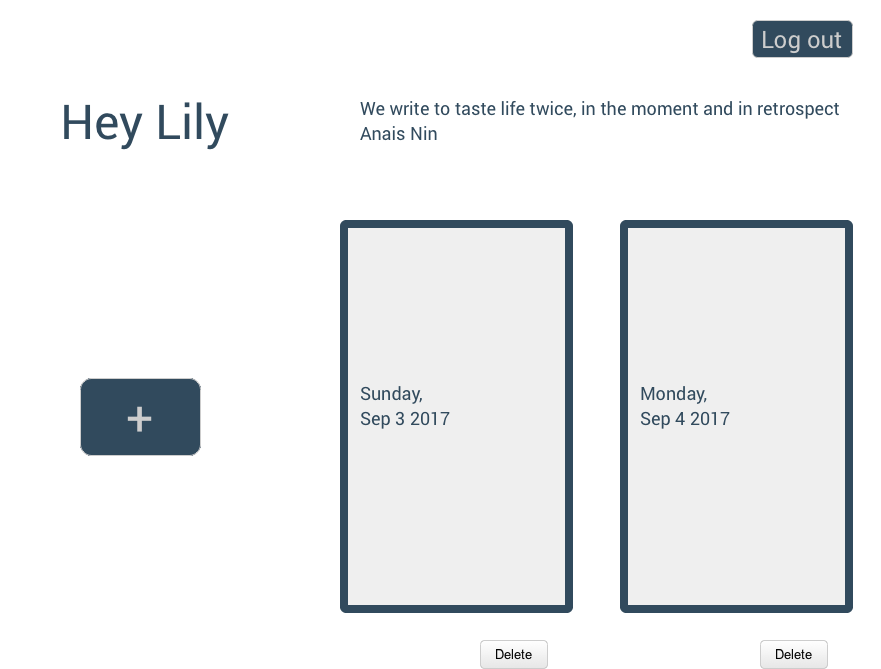
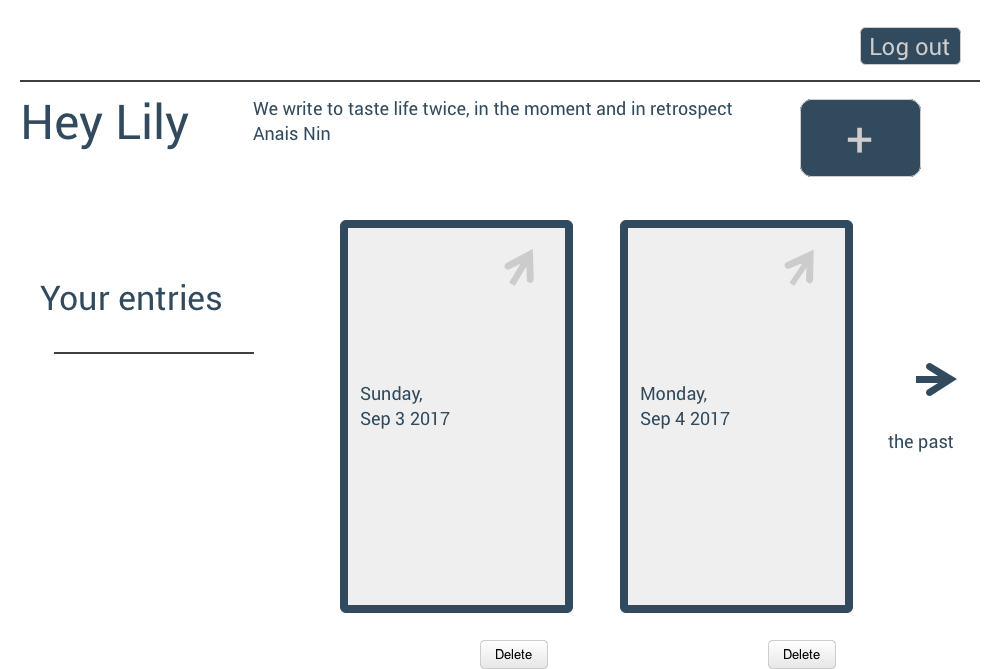
adds static dashboard with route in app

diff --git a/src/components/Dashboard.js b/src/components/Dashboard.js
@@ -1,9 +1,32 @@
 import React, { Component } from 'react';
+import { Link } from 'react-router-dom';
 
 class Dashboard extends Component {
   render() {
     return (
-      <div></div>
+      <div className="dashboard">
+        <NavBar />
+        <div className="topWrapper">
+          <span>Hey Lily</span>
+          <span>Quote</span>
+          <Link to="/writeentry"><button>+</button></Link>
+        </div>
+        <div className="entriesWrapper">
+          <div className="entriesWrapperA">
+            <h3>Your entries</h3>
+          </div>
+          <div className="entriesWrapperB">
+            <EntryPreview />
+          </div>
+          <div className="entriesWrapperC">
+            <EntryPreview />
+          </div>
+          <div className="entriesWrapperD">
+            <span>next-arrow</span>
+            <span>the past</span>
+          </div>
+        </div>
+      </div>
     );
   }
 }

diff --git a/src/App.js b/src/App.js
@@ -4,7 +4,8 @@ import './App.css';
 import { BrowserRouter, Route } from 'react-router-dom';
 import LandingPage from './components/LandingPage';
 import CreateAccount from './components/CreateAccount';
-import LogIn from './components/LogIn';
+import Login from './components/Login';
+import Dashboard from './components/Dashboard';
 
 class App extends Component {
   render() {
@@ -13,7 +14,8 @@ class App extends Component {
         <div className="App">
           <Route exact path="/" component={LandingPage} />
           <Route path="/createaccount" component={CreateAccount} />
-          <Route path="/login" component={LogIn} />
+          <Route path="/login" component={Login} />
+          <Route path="/dashboard" component={Dashboard} />
           <footer>Curious Rose™</footer>
         </div>
       </BrowserRouter>

diff --git a/src/components/Login.js b/src/components/Login.js
@@ -3,16 +3,15 @@ import React, { Component } from 'react';
 class Login extends Component {
   render() {
     return (
-      <div className="logIn">
-        <h1>Log In/h1>
+      <div className="logIn" >
+        <h1>Log In</h1>
         <form onSubmit={this.handleSubmit}>
-          <div className="inputFields">
-              <input type='text' placeholder="Email" ref={r => this.highlightInp1 = r} />
-              <input type='text' placeholder="Password" ref={r => this.highlightInp2 = r} />
-            <button>Log In</button>
+          <div>
+            <input type='text' placeholder="Email" ref={r => this.highlightInp1 = r} />
+            <input type='text' placeholder="Password" ref={r => this.highlightInp2 = r} />
           </div>
+          <button>Log In</button>
         </form>
-
       </div>
     );
   }
